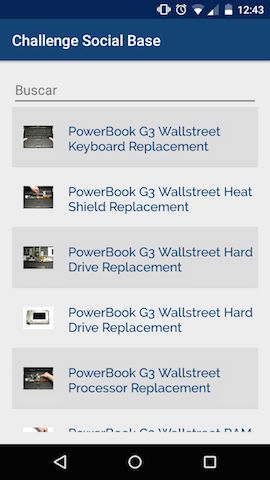
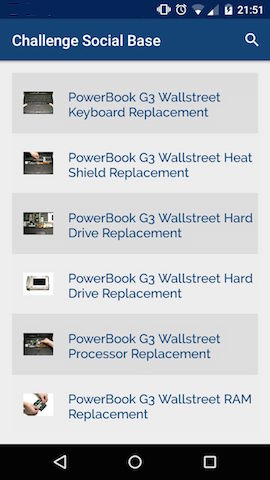
Search in toolbar

diff --git a/app/src/main/java/br/com/socialbase/challengesocialbase/MainActivity.java b/app/src/main/java/br/com/socialbase/challengesocialbase/MainActivity.java
@@ -2,9 +2,9 @@ package br.com.socialbase.challengesocialbase;
 
 import android.os.Bundle;
 import android.support.v4.widget.SwipeRefreshLayout;
-import android.text.Editable;
-import android.text.TextWatcher;
-import android.widget.EditText;
+import android.support.v7.widget.SearchView;
+import android.view.Menu;
+import android.view.MenuInflater;
 import android.widget.ListView;
 
 import java.util.ArrayList;
@@ -25,7 +25,6 @@ public class MainActivity extends BaseActivity {
     private SwipeRefreshLayout swipeLayout;
     private AsyncReceiveRequest async = null;
     private DatabaseHelper databaseHelper;
-    private EditText edtSearch;
 
     @Override
     protected void onCreate(Bundle savedInstanceState) {
@@ -43,21 +42,6 @@ public class MainActivity extends BaseActivity {
             }
         });
 
-        edtSearch = (EditText) findViewById(R.id.edt_search);
-        edtSearch.addTextChangedListener(new TextWatcher() {
-            @Override
-            public void beforeTextChanged(CharSequence s, int start, int count, int after) {
-            }
-
-            @Override
-            public void onTextChanged(CharSequence s, int start, int before, int count) {
-            }
-
-            @Override
-            public void afterTextChanged(Editable s) {
-                adapter.getFilter().filter(s.toString());
-            }
-        });
 
         databaseHelper = DatabaseHelper.getInstance(this);
         getPostsFromServer();
@@ -104,6 +88,34 @@ public class MainActivity extends BaseActivity {
         for (Post post: posts) {
             databaseHelper.addPost(post);
         }
+    }
+
+    @Override
+    public boolean onCreateOptionsMenu(Menu menu) {
+        MenuInflater inflater = getMenuInflater();
+        inflater.inflate(R.menu.search_menu, menu);
+
+        SearchView searchView = (SearchView) menu.findItem(R.id.search_menu_item).getActionView();
+        searchView .setQueryHint(getString(R.string.search));
+
+        searchView.setOnQueryTextListener(new SearchView.OnQueryTextListener() {
+            @Override
+            public boolean onQueryTextSubmit(String query) {
+                adapter.getFilter().filter(query.toString());
+                return true;
+            }
+
+            @Override
+            public boolean onQueryTextChange(String newText) {
+                if (adapter != null) {
+                    adapter.getFilter().filter(newText.toString());
+                }
+                return true;
+            }
+        });
+
+
+        return true;
     }
 
 }
